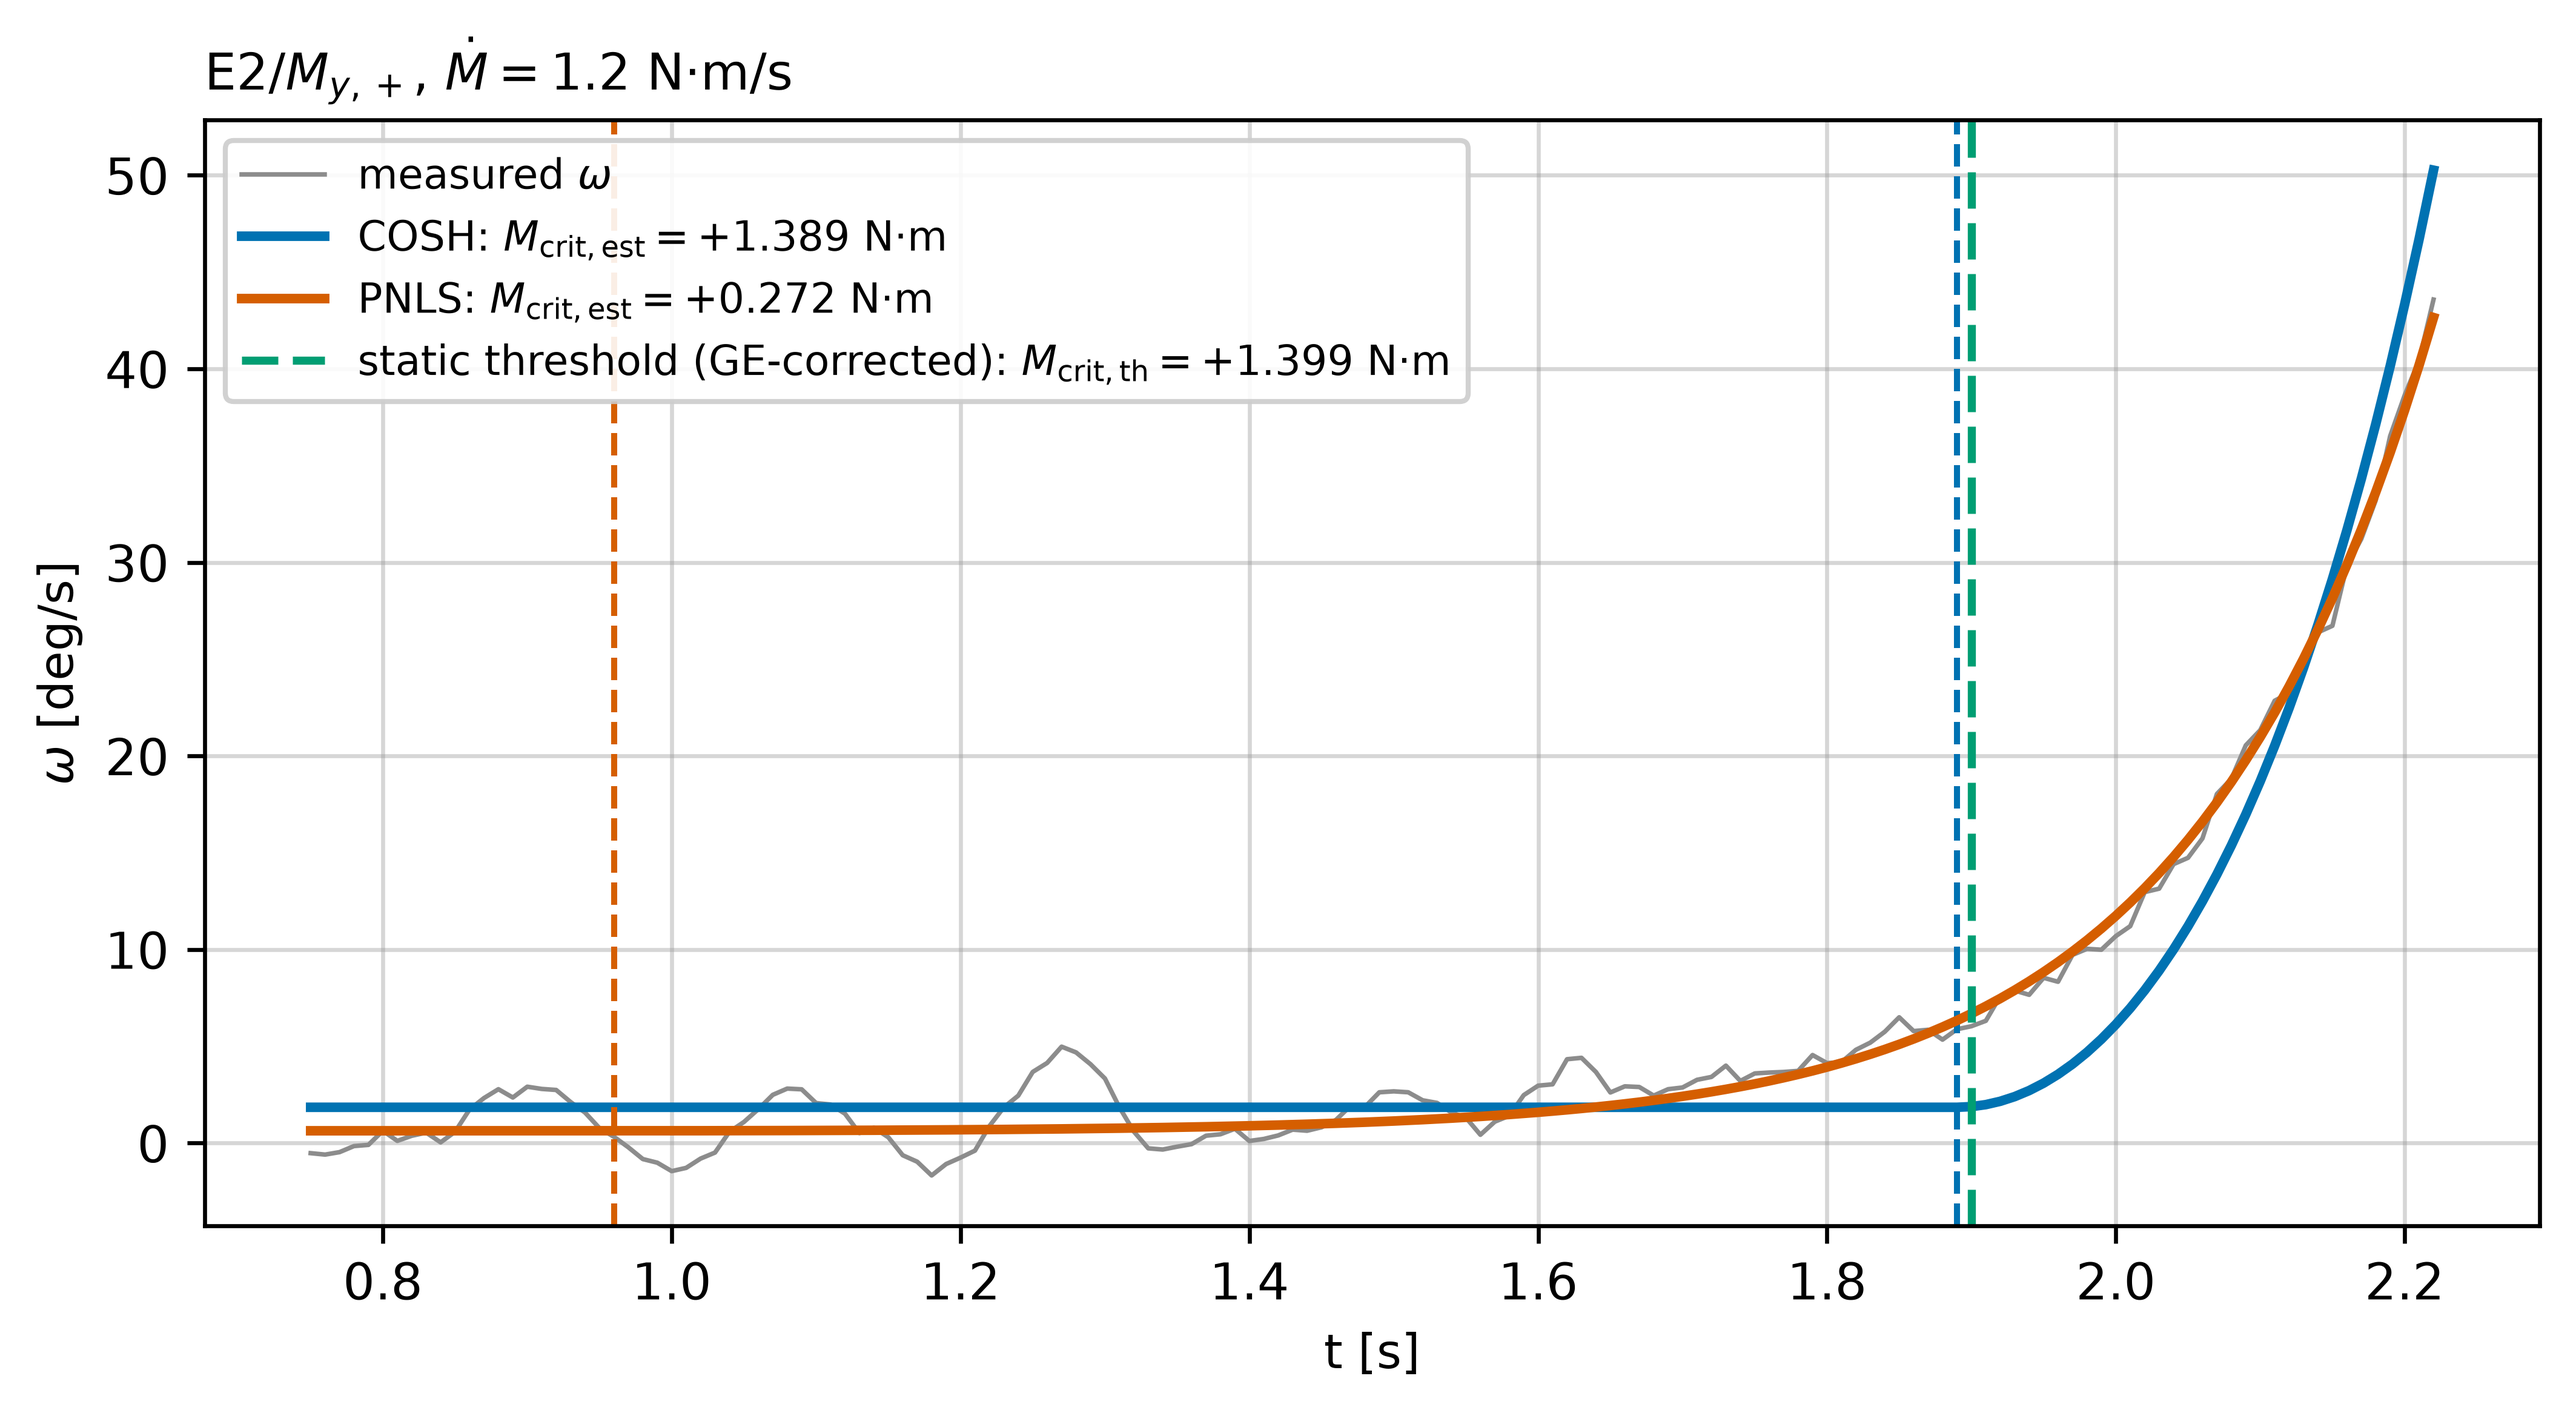
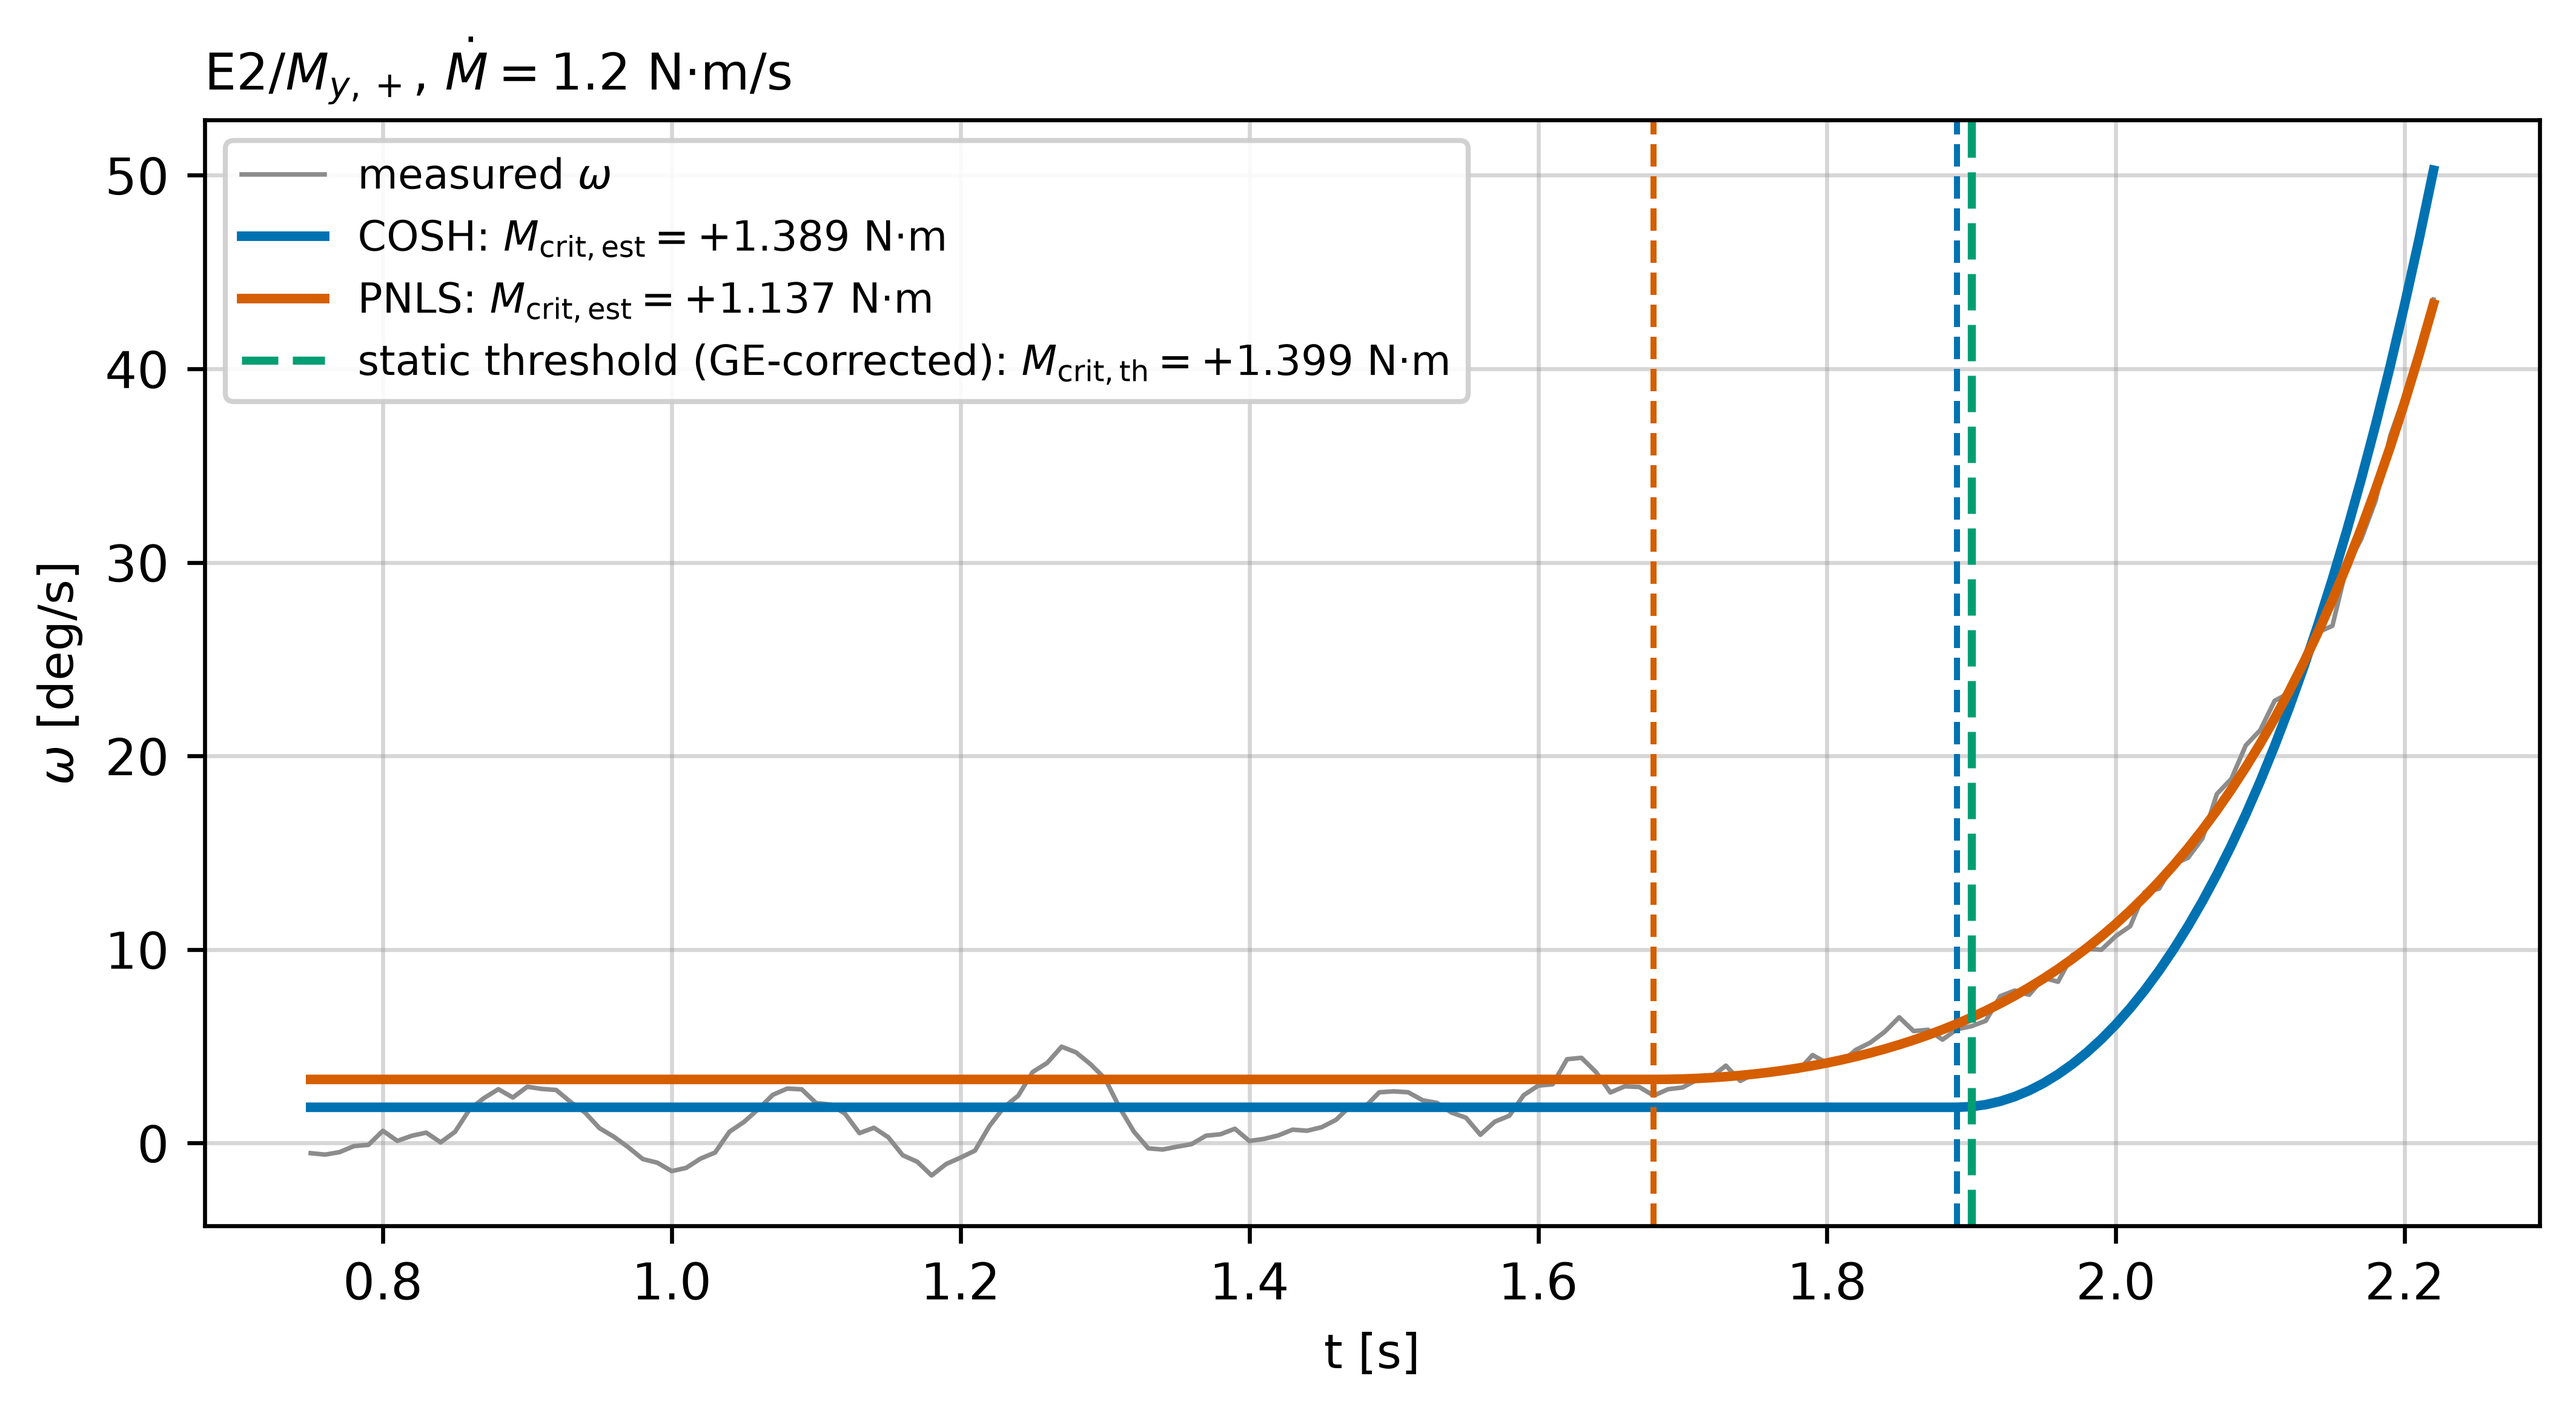
Regenerate the PNLS-dependent hardware artifacts with the restored fit
Only the PNLS column moves (139/140 runs, max 1.45 N.m); every other
detector is untouched. Campaign CV returns to 5.9% median / 19.8%
worst, the paired difference to COSH tightens to -14 [-180, +51]
mN.m (med |d| 28), and the radial offset error to 2.43 mm RMS --
in line with the other benchmarks. The fit-comparison exemplar now
reads PNLS +1.137 N.m against COSH +1.389 and the GE-corrected
static threshold +1.399. The score heatmap is laid on the recomputed
stage-1 centre with the deployed constants inside the search box.

Claude-Session: https://claude.ai/code/session_01BM6bcsm1ZtLtgegEeuFDVS

diff --git a/docs/tab_offset_error.tex b/docs/tab_offset_error.tex
@@ -15,15 +15,15 @@ the five cases.}
 \toprule
 Case & COSH & COSH-CAD & PNLS & CPD-N & CPD-R & CUSUM\\
 \midrule
-E1 & $1.28 \pm 1.03$ & $1.33 \pm 1.34$ & $1.17 \pm 5.27$ & $1.46 \pm 1.19$ & $1.82 \pm 1.71$ & $2.55 \pm 4.08$\\
-E2 & $1.09 \pm 0.55$ & $0.99 \pm 1.06$ & $4.57 \pm 6.20$ & $0.80 \pm 0.87$ & $0.34 \pm 4.18$ & $1.53 \pm 4.05$\\
-E3 & $4.12 \pm 0.60$ & $4.18 \pm 0.74$ & $2.41 \pm 8.09$ & $3.74 \pm 1.45$ & $2.29 \pm 4.82$ & $3.77 \pm 3.52$\\
-E4 & $2.68 \pm 0.90$ & $2.51 \pm 1.07$ & $7.72 \pm 4.88$ & $3.26 \pm 1.56$ & $4.31 \pm 2.58$ & $3.10 \pm 1.64$\\
-E5 & $0.35 \pm 1.00$ & $0.56 \pm 1.25$ & $2.66 \pm 3.37$ & $0.62 \pm 1.17$ & $0.26 \pm 3.86$ & $0.66 \pm 1.25$\\
+E1 & $1.28 \pm 1.03$ & $1.33 \pm 1.34$ & $0.86 \pm 1.89$ & $1.46 \pm 1.19$ & $1.82 \pm 1.71$ & $2.55 \pm 4.08$\\
+E2 & $1.09 \pm 0.55$ & $0.99 \pm 1.06$ & $0.80 \pm 1.36$ & $0.80 \pm 0.87$ & $0.34 \pm 4.18$ & $1.53 \pm 4.05$\\
+E3 & $4.12 \pm 0.60$ & $4.18 \pm 0.74$ & $3.89 \pm 1.22$ & $3.74 \pm 1.45$ & $2.29 \pm 4.82$ & $3.77 \pm 3.52$\\
+E4 & $2.68 \pm 0.90$ & $2.51 \pm 1.07$ & $3.50 \pm 1.73$ & $3.26 \pm 1.56$ & $4.31 \pm 2.58$ & $3.10 \pm 1.64$\\
+E5 & $0.35 \pm 1.00$ & $0.56 \pm 1.25$ & $0.89 \pm 2.01$ & $0.62 \pm 1.17$ & $0.26 \pm 3.86$ & $0.66 \pm 1.25$\\
 \midrule
-RMS $\|\cdot\|$ [95\% int.] & $2.33$ $[0.42,\,3.98]$ & $2.32$ $[0.60,\,4.01]$ & $4.35$ $[1.30,\,7.40]$ & $2.36$ $[0.64,\,3.69]$ & $2.34$ $[0.27,\,4.11]$ & $2.57$ $[0.75,\,3.71]$\\
-RMS (comp.) & $1.65$ & $1.64$ & $3.08$ & $1.67$ & $1.65$ & $1.82$\\
-max $|\cdot|$ (comp.) & $3.34$ & $3.42$ & $7.10$ & $3.06$ & $3.09$ & $3.19$\\
+RMS $\|\cdot\|$ [95\% int.] & $2.33$ $[0.42,\,3.98]$ & $2.32$ $[0.60,\,4.01]$ & $2.43$ $[0.80,\,3.85]$ & $2.36$ $[0.64,\,3.69]$ & $2.34$ $[0.27,\,4.11]$ & $2.57$ $[0.75,\,3.71]$\\
+RMS (comp.) & $1.65$ & $1.64$ & $1.72$ & $1.67$ & $1.65$ & $1.82$\\
+max $|\cdot|$ (comp.) & $3.34$ & $3.42$ & $3.28$ & $3.06$ & $3.09$ & $3.19$\\
 \bottomrule
 \end{tabular}
 \end{table}

diff --git a/docs/tab_cv_case.tex b/docs/tab_cv_case.tex
@@ -14,13 +14,13 @@ parentheses.}
 \toprule
 Case & COSH & COSH-CAD & PNLS & CPD-N & CPD-R & CUSUM\\
 \midrule
-E1 & $4.2$ $(5.8)$ & $5.8$ $(13.3)$ & $26.7$ $(42.5)$ & $4.7$ $(6.1)$ & $7.1$ $(8.6)$ & $6.3$ $(24.0)$\\
-E2 & $1.6$ $(2.1)$ & $3.0$ $(8.5)$ & $14.6$ $(47.1)$ & $2.5$ $(3.1)$ & $9.4$ $(22.1)$ & $2.7$ $(21.9)$\\
-E3 & $2.0$ $(2.6)$ & $2.6$ $(3.8)$ & $20.8$ $(38.9)$ & $4.3$ $(4.9)$ & $7.3$ $(23.9)$ & $8.5$ $(22.8)$\\
-E4 & $3.1$ $(3.7)$ & $3.9$ $(4.9)$ & $16.9$ $(59.4)$ & $5.6$ $(7.5)$ & $7.4$ $(10.3)$ & $5.3$ $(7.3)$\\
-E5 & $3.4$ $(5.3)$ & $5.2$ $(7.4)$ & $10.9$ $(57.5)$ & $3.7$ $(8.6)$ & $6.1$ $(27.4)$ & $4.0$ $(8.3)$\\
+E1 & $4.2$ $(5.8)$ & $5.8$ $(13.3)$ & $7.5$ $(17.1)$ & $4.7$ $(6.1)$ & $7.1$ $(8.6)$ & $6.3$ $(24.0)$\\
+E2 & $1.6$ $(2.1)$ & $3.0$ $(8.5)$ & $5.0$ $(7.1)$ & $2.5$ $(3.1)$ & $9.4$ $(22.1)$ & $2.7$ $(21.9)$\\
+E3 & $2.0$ $(2.6)$ & $2.6$ $(3.8)$ & $3.6$ $(7.0)$ & $4.3$ $(4.9)$ & $7.3$ $(23.9)$ & $8.5$ $(22.8)$\\
+E4 & $3.1$ $(3.7)$ & $3.9$ $(4.9)$ & $5.0$ $(10.3)$ & $5.6$ $(7.5)$ & $7.4$ $(10.3)$ & $5.3$ $(7.3)$\\
+E5 & $3.4$ $(5.3)$ & $5.2$ $(7.4)$ & $6.3$ $(19.8)$ & $3.7$ $(8.6)$ & $6.1$ $(27.4)$ & $4.0$ $(8.3)$\\
 \midrule
-all & $2.5$ $(5.8)$ & $3.5$ $(13.3)$ & $17.4$ $(59.4)$ & $4.1$ $(8.6)$ & $7.1$ $(27.4)$ & $4.7$ $(24.0)$\\
+all & $2.5$ $(5.8)$ & $3.5$ $(13.3)$ & $5.9$ $(19.8)$ & $4.1$ $(8.6)$ & $7.1$ $(27.4)$ & $4.7$ $(24.0)$\\
 \bottomrule
 \end{tabular}
 \end{table}

diff --git a/docs/tab_mcrit_method_diff.tex b/docs/tab_mcrit_method_diff.tex
@@ -18,7 +18,7 @@ M_{\mathrm{COSH}})$ over the 140 gated hardware runs
 method & median & 95\% interval & median $|\Delta|$\\
 \midrule
 COSH-CAD & $-34$ & $[-131,\,+14]$ & $34$\\
-PNLS & $-122$ & $[-895,\,+6]$ & $122$\\
+PNLS & $-14$ & $[-180,\,+51]$ & $28$\\
 CPD-N & $+30$ & $[-53,\,+114]$ & $33$\\
 CPD-R & $+17$ & $[-452,\,+125]$ & $38$\\
 CUSUM & $+39$ & $[-179,\,+133]$ & $45$\\
